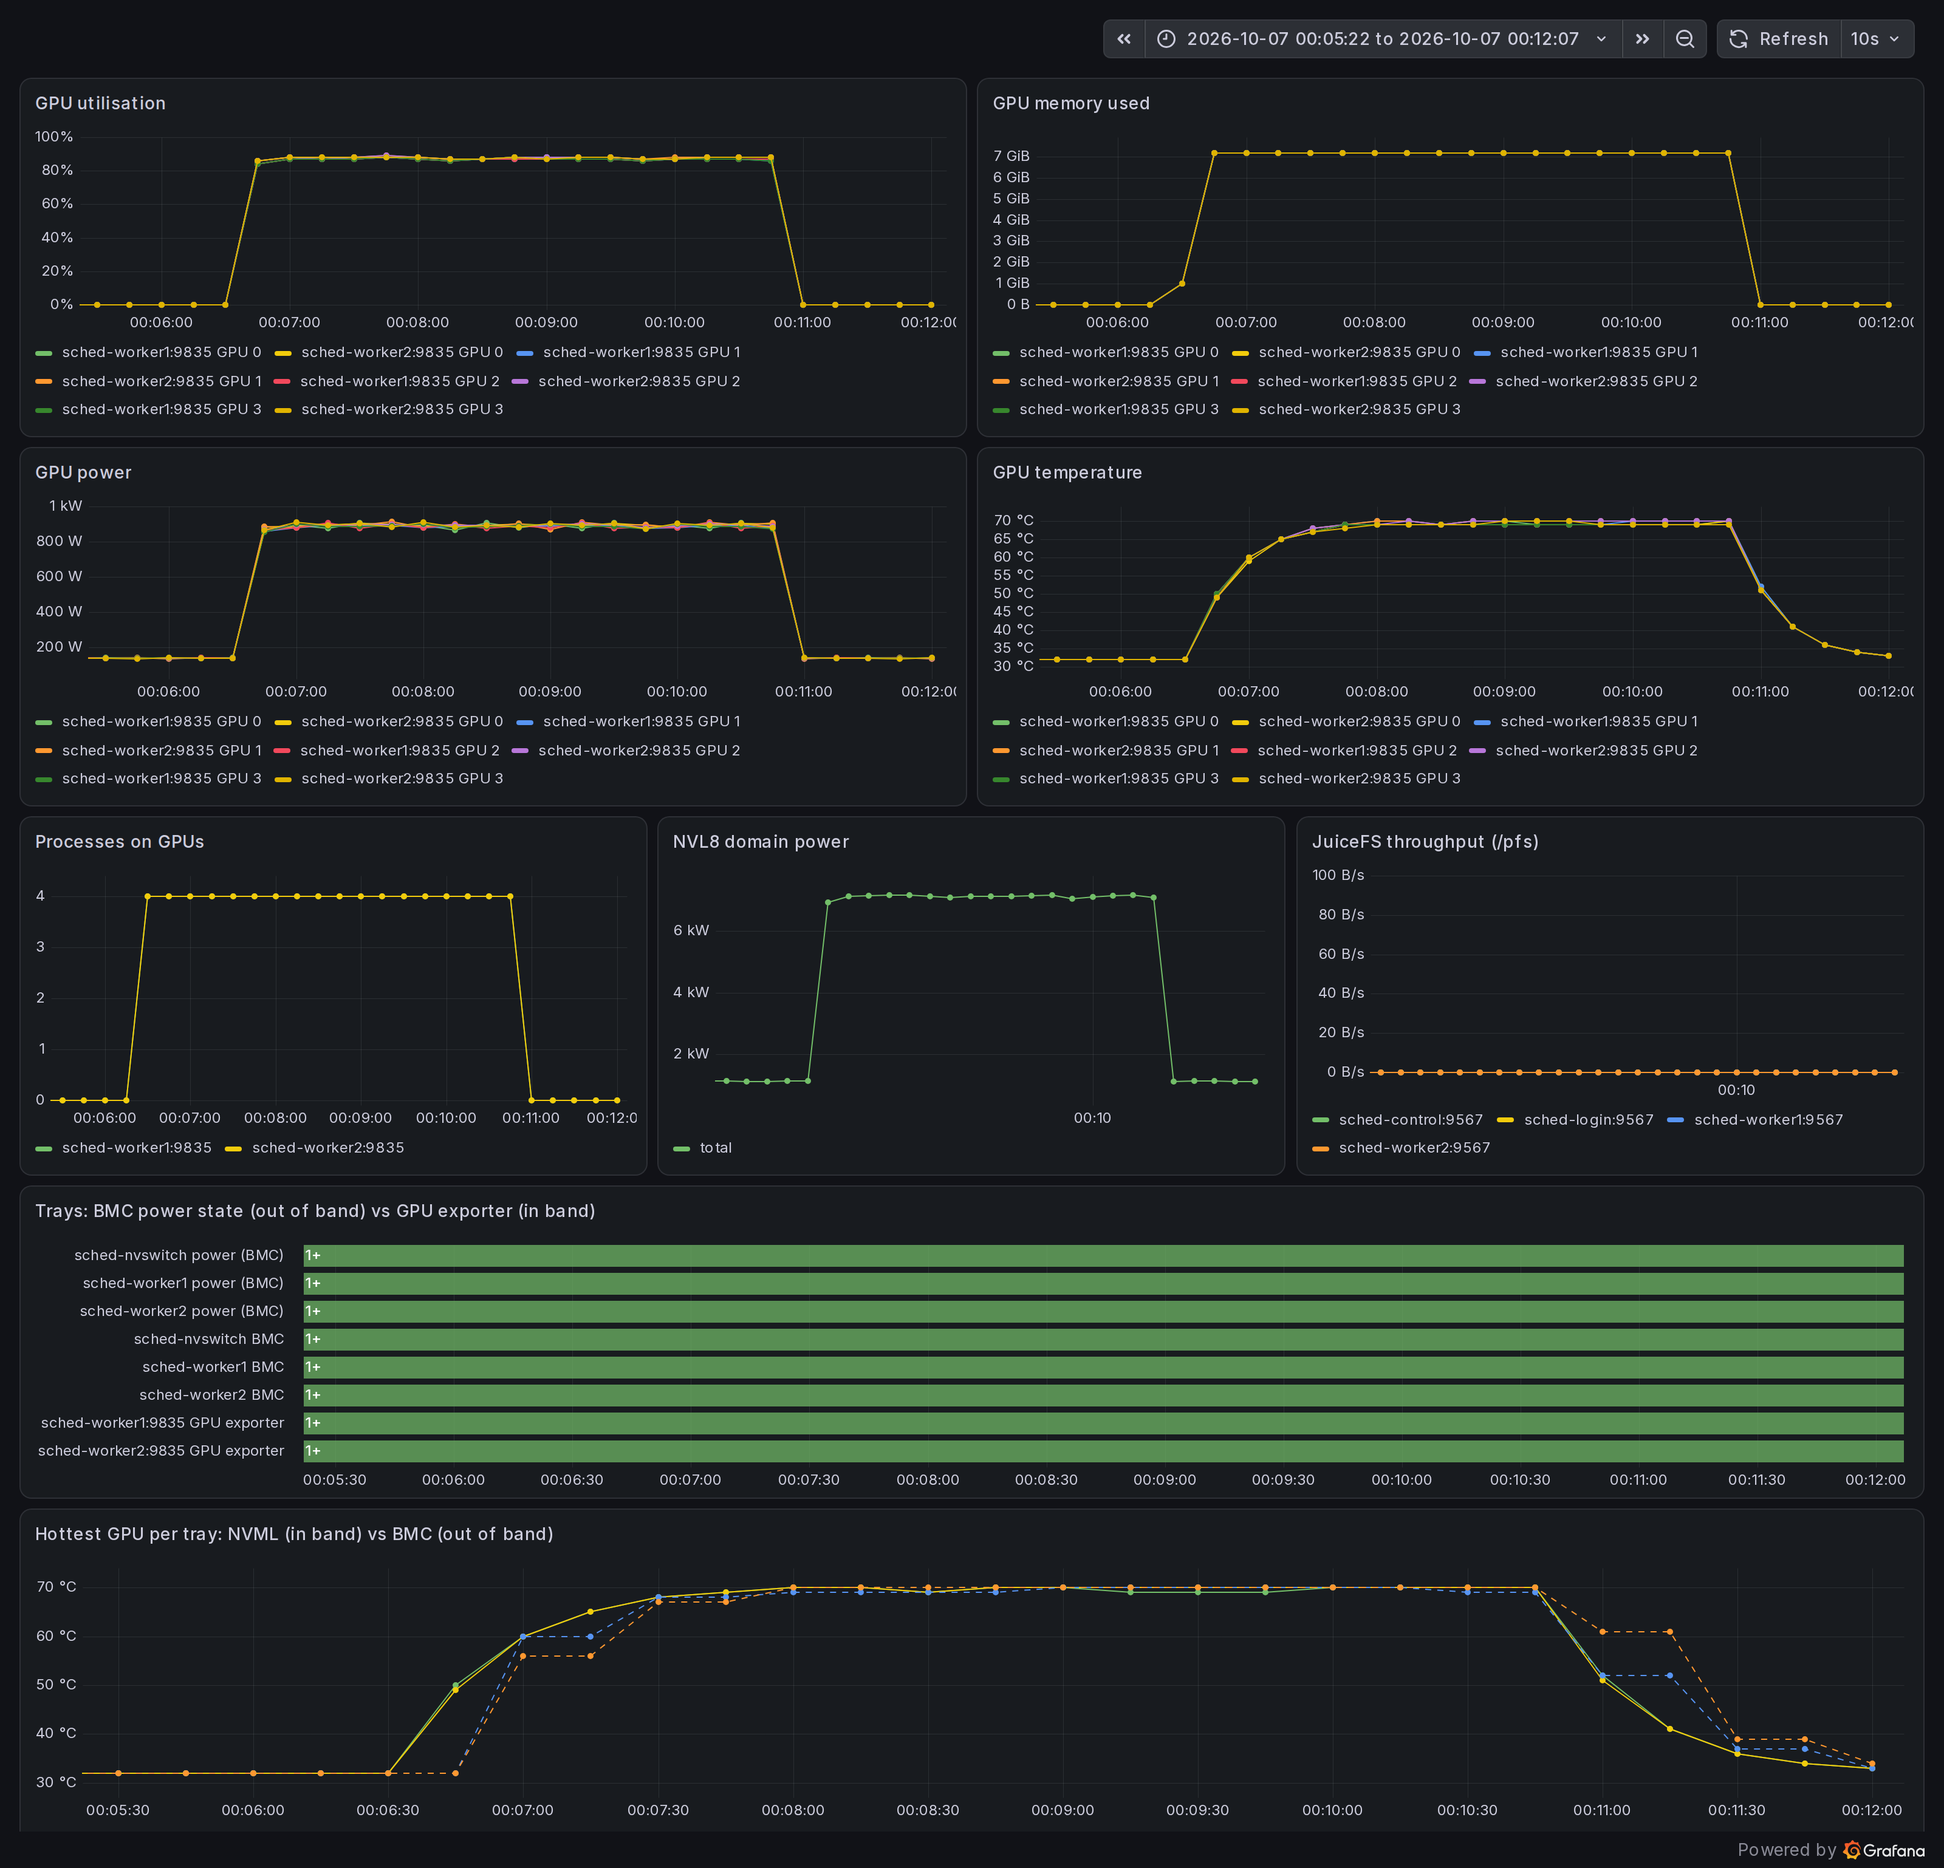
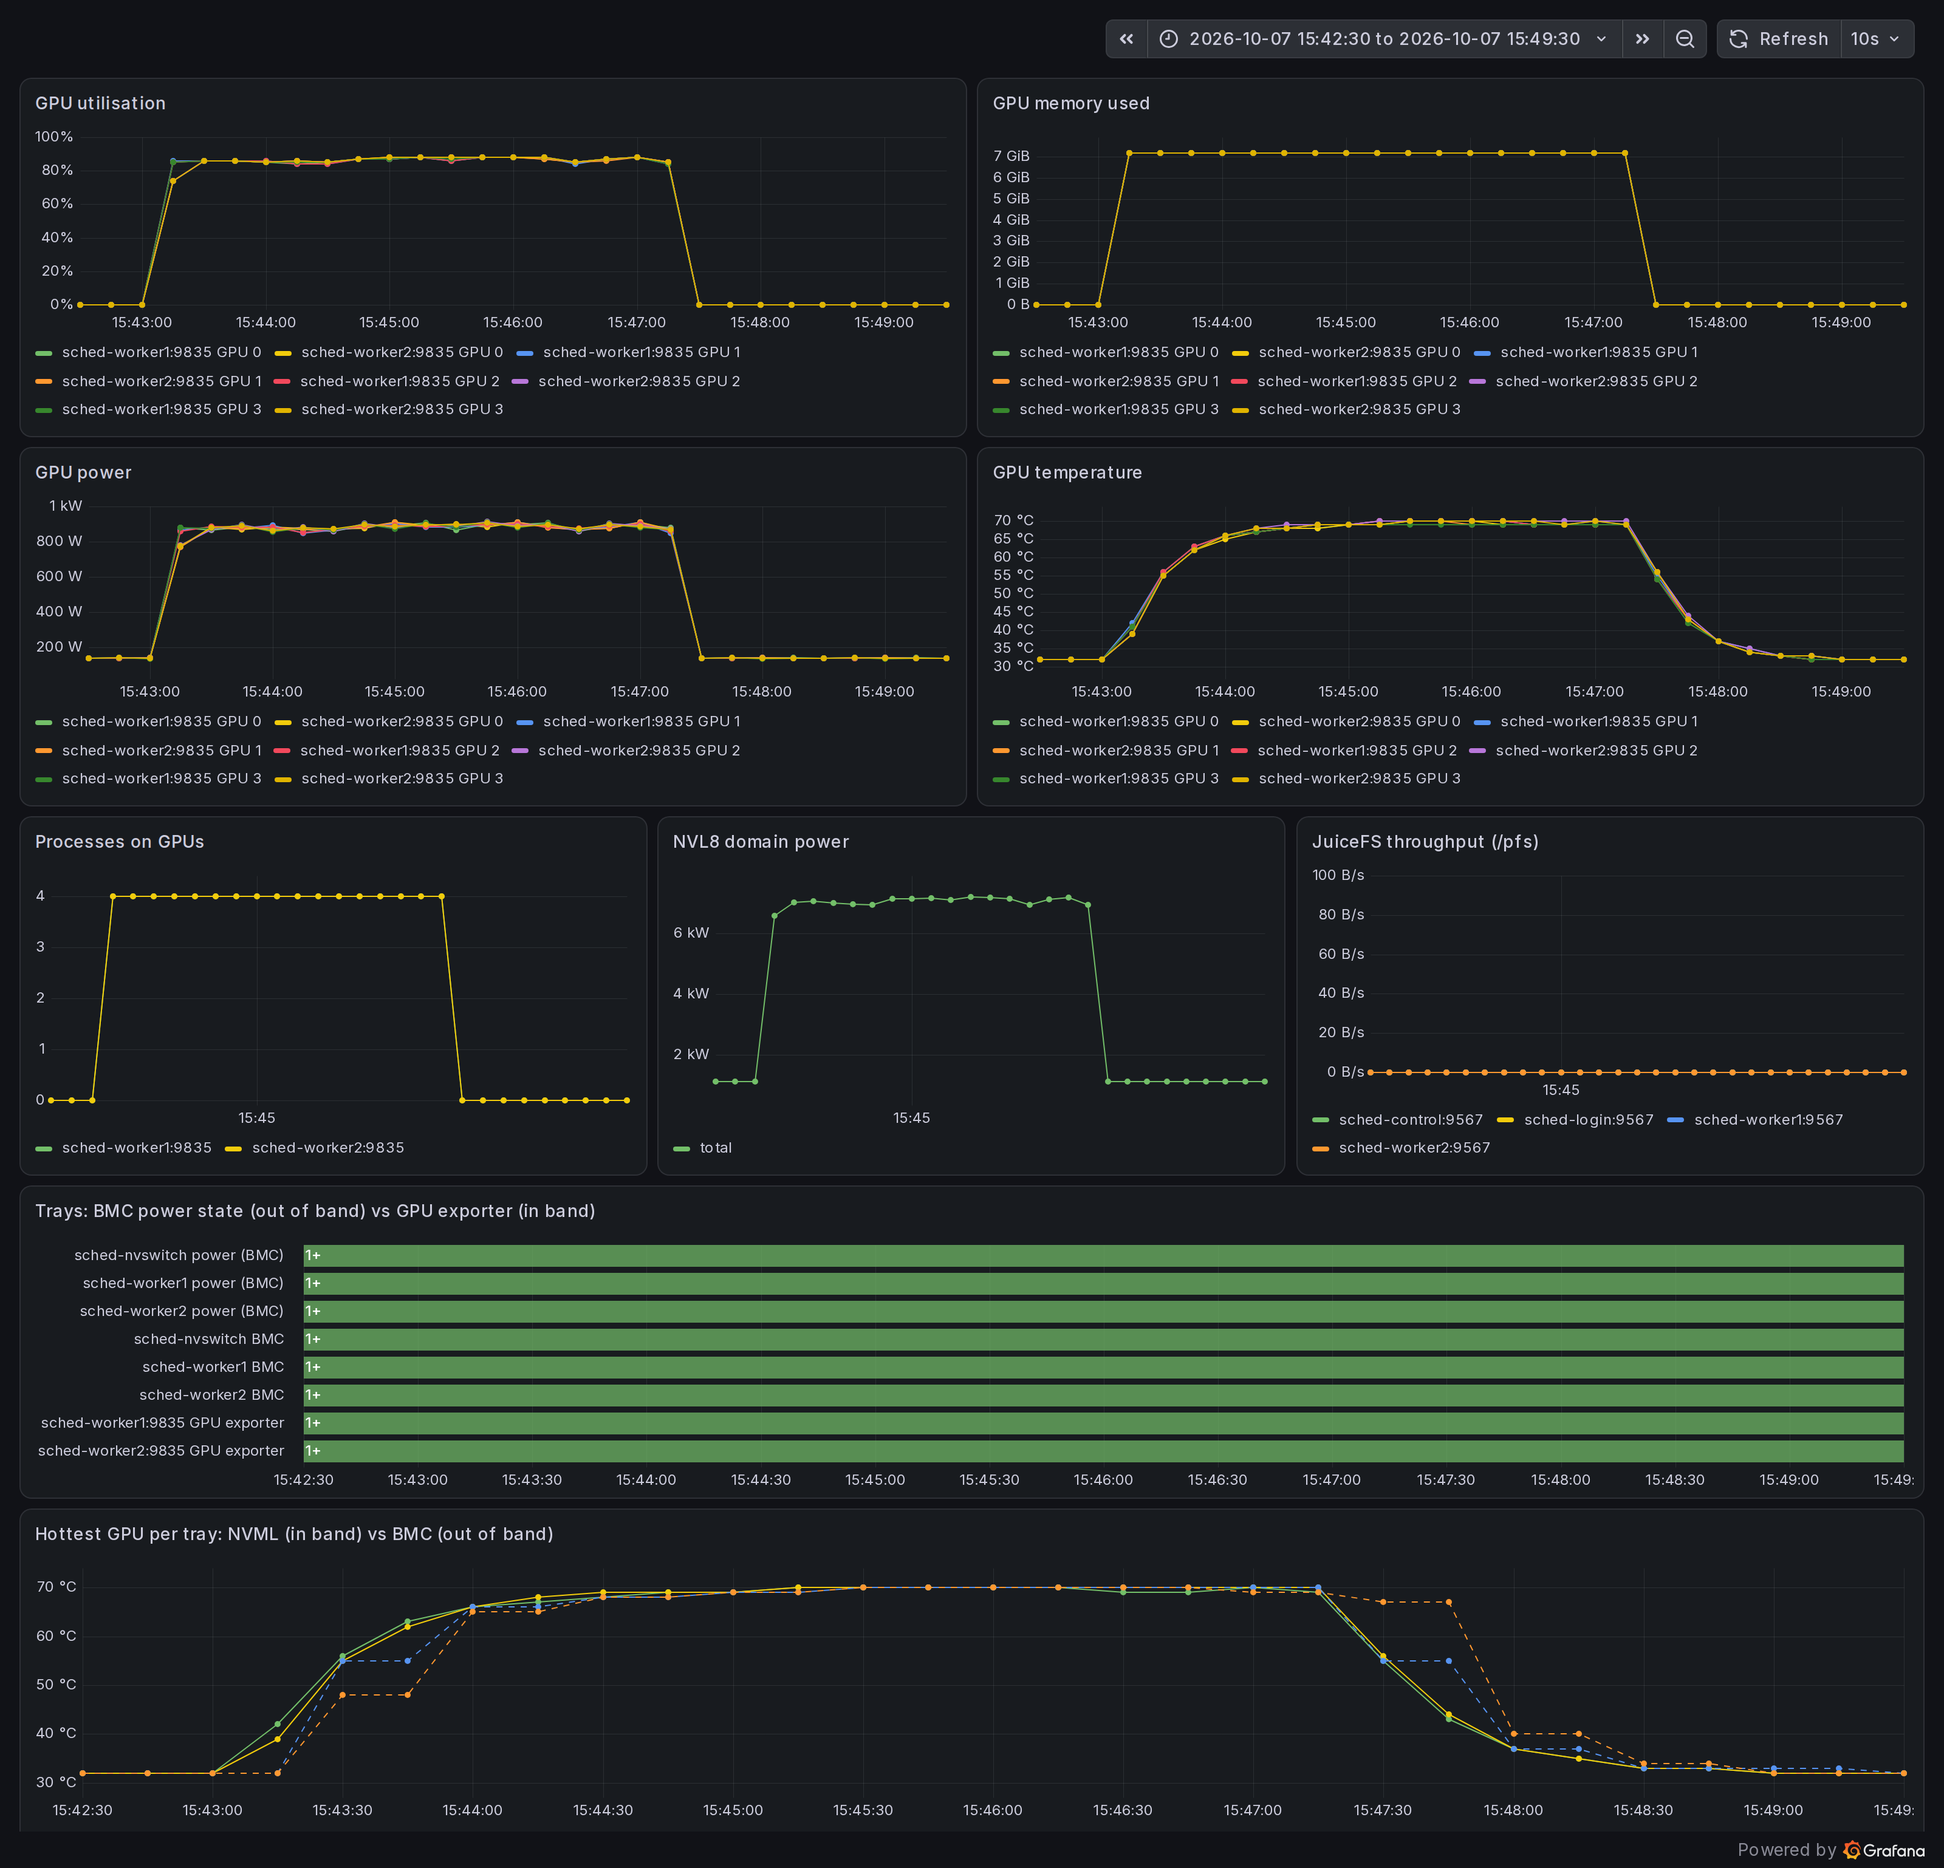
AI lab Parts 3 and 7: recaptured with per-precision GEMM rates
Recaptured on the lab in Kubernetes mode (ai-lab 41bf14d):
- Part 3: the example JobSets, the 50-step DDP run (4.0-4.3 ms per
  step), Kueue queueing, PromQL, nvidia-smi and both screenshots
- Part 7: NVLink traffic during the DDP run, now linked to Part 3,
  where the Kubernetes run comes from
- Part 6: why drained* appears before SlurmdTimeout

diff --git a/content/ai-lab/03-kubernetes/index.md b/content/ai-lab/03-kubernetes/index.md
@@ -160,32 +160,32 @@ The repository's `examples/kubernetes/` has four example jobs, written as JobSet
 $ cd examples/kubernetes
 
 $ ./submit --wait nvl8-hello.yaml
-nvl8-hello-393696
+nvl8-hello-563447
 
-$ cat nvl8-hello-393696.out
-[pod/nvl8-hello-393696-rank-0-4-74f9v/hello] rank 4 on sched-worker2 NVIDIA_VISIBLE_DEVICES=GPU-81477906-d580-de42-e868-ff62e9ef4317: NVIDIA GB200, GPU-81477906-d580-de42-e868-ff62e9ef4317, 1
+$ cat nvl8-hello-563447.out
+[pod/nvl8-hello-563447-rank-0-7-qqdvr/hello] rank 7 on sched-worker2 NVIDIA_VISIBLE_DEVICES=GPU-814804a5-291e-ba91-a4e9-01fb69ea739b: NVIDIA GB200, GPU-814804a5-291e-ba91-a4e9-01fb69ea739b, 1
 …
-[pod/nvl8-hello-393696-rank-0-3-qgclw/hello] rank 3 on sched-worker1 NVIDIA_VISIBLE_DEVICES=GPU-81502f39-9cad-de97-2723-3d7d71928458: NVIDIA GB200, GPU-81502f39-9cad-de97-2723-3d7d71928458, 1
+[pod/nvl8-hello-563447-rank-0-6-m65hh/hello] rank 6 on sched-worker2 NVIDIA_VISIBLE_DEVICES=GPU-8147ef90-7f0c-fc1e-c070-d80c4a3d939f: NVIDIA GB200, GPU-8147ef90-7f0c-fc1e-c070-d80c4a3d939f, 1
 ```
 
 That's eight pods, each holding one different GPU, all in clique 1. DDP works the same way: two pods with four GPUs each, and `torchrun` doing rendezvous on pod 0 through the JobSet's DNS name:
 
 ```console
 $ ./submit --wait ddp-train.yaml
-ddp-train-489951
+ddp-train-784428
 
-$ grep -E "world=|step |rank 0/" ddp-train-489951.out
-[pod/ddp-train-489951-node-0-0-tdt2z/torchrun] world=8 params=537M batch/rank=64 width=8192
-[pod/ddp-train-489951-node-0-0-tdt2z/torchrun] step    1      9.3 ms     55220 samples/s      22 TFLOP/s/GPU
-[pod/ddp-train-489951-node-0-0-tdt2z/torchrun] step   10      4.5 ms    114013 samples/s      46 TFLOP/s/GPU
-[pod/ddp-train-489951-node-0-0-tdt2z/torchrun] step   20      4.3 ms    117940 samples/s      47 TFLOP/s/GPU
-[pod/ddp-train-489951-node-0-0-tdt2z/torchrun] step   30      4.9 ms    105525 samples/s      42 TFLOP/s/GPU
-[pod/ddp-train-489951-node-0-0-tdt2z/torchrun] step   40      4.3 ms    119061 samples/s      48 TFLOP/s/GPU
-[pod/ddp-train-489951-node-0-0-tdt2z/torchrun] step   50      5.8 ms     87613 samples/s      35 TFLOP/s/GPU
-[pod/ddp-train-489951-node-0-0-tdt2z/torchrun] rank 0/8 on ddp-train-489951-node-0-0 cuda:0 (NVIDIA GB200) peak mem 6.1 GiB
+$ grep -E "world=|step |rank 0/" ddp-train-784428.out
+[pod/ddp-train-784428-node-0-0-8rgvd/torchrun] world=8 params=537M batch/rank=64 width=8192
+[pod/ddp-train-784428-node-0-0-8rgvd/torchrun] step    1      7.9 ms     65182 samples/s      26 TFLOP/s/GPU
+[pod/ddp-train-784428-node-0-0-8rgvd/torchrun] step   10      4.3 ms    119891 samples/s      48 TFLOP/s/GPU
+[pod/ddp-train-784428-node-0-0-8rgvd/torchrun] step   20      4.1 ms    125733 samples/s      51 TFLOP/s/GPU
+[pod/ddp-train-784428-node-0-0-8rgvd/torchrun] step   30      4.0 ms    126661 samples/s      51 TFLOP/s/GPU
+[pod/ddp-train-784428-node-0-0-8rgvd/torchrun] step   40      4.0 ms    128022 samples/s      52 TFLOP/s/GPU
+[pod/ddp-train-784428-node-0-0-8rgvd/torchrun] step   50      4.1 ms    124470 samples/s      50 TFLOP/s/GPU
+[pod/ddp-train-784428-node-0-0-8rgvd/torchrun] rank 0/8 on ddp-train-784428-node-0-0 cuda:0 (NVIDIA GB200) peak mem 7.1 GiB
 ```
 
-The default run is only 50 steps. After the first step, which includes warm-up, a step takes between 4.3 and 5.8 ms, in the same range as the same job under Slurm in Part 2. As there, the step time is simulated, and the loss values are not real.
+The default run is only 50 steps. After the first step, which includes warm-up, a step takes between 4.0 and 4.3 ms, in the same range as the same job under Slurm in Part 2. As there, the step time is simulated, and the loss values are not real.
 
 ## Operations
 
@@ -197,19 +197,19 @@ Start a longer DDP run, `ddp-long.yaml`: a copy of `ddp-train.yaml` with `--step
 
 ```console
 $ ./submit ddp-long.yaml
-ddp-long-153244
+ddp-long-479273
 
 $ ./submit nvl8-hello.yaml
-nvl8-hello-828000
+nvl8-hello-370393
 
 $ kubectl get workloads
 NAME                             QUEUE   RESERVED IN   ADMITTED   FINISHED   AGE
-jobset-ddp-long-153244-03f59     gpu     gpu           True                  48s
-jobset-ddp-train-489951-e427a    gpu     gpu           True       True       2m43s
-jobset-nvl8-hello-393696-8ffa7   gpu     gpu           True       True       3m4s
-jobset-nvl8-hello-828000-ef6fa   gpu                   False                 8s
+jobset-ddp-long-479273-f3281     gpu     gpu           True                  59s
+jobset-ddp-train-784428-cf108    gpu     gpu           True       True       2m15s
+jobset-nvl8-hello-370393-dc423   gpu                   False                 9s
+jobset-nvl8-hello-563447-13ea0   gpu     gpu           True       True       2m26s
 
-$ kubectl get workload jobset-nvl8-hello-828000-ef6fa \
+$ kubectl get workload jobset-nvl8-hello-370393-dc423 \
     -o jsonpath='{.status.conditions[?(@.type=="QuotaReserved")].message}'
 couldn't assign flavors to pod set rank: insufficient unused quota for nvidia.com/gpu in flavor gb200, 8 more needed
 ```
@@ -257,9 +257,9 @@ RUNNING 1, PENDING 1
 sched_nodes
 READY 2
 
-# GPU utilisation per tray (4 GPUs × ~86 %)
+# GPU utilisation per tray (4 GPUs × ~88 %)
 sum by (instance) (nvidia_smi_utilization_gpu_ratio)
-3.46, 3.44
+3.52, 3.52
 
 # processes on GPUs
 sum by (instance) (nvidia_smi_compute_apps)
@@ -274,9 +274,9 @@ Grafana's **Lab overview** dashboard shows the same DDP run on the trays:
 
 All eight GPUs move together, as they did under Slurm:
 
-- **GPU utilisation** jumps to 87-88 % when the pods start and drops to 0 when they end.
+- **GPU utilisation** jumps to 86-88 % when the pods start and drops to 0 when they end.
 - **GPU memory used** goes to about 7 GiB per GPU and stays there until the job ends.
-- **GPU power** goes from about 140 W to 880-910 W per GPU.
+- **GPU power** goes from about 140 W to 860-910 W per GPU.
 - **GPU temperature** climbs to 70 °C over about a minute. When the job ends it cools gradually: Kubernetes has no epilog to reset the GPUs, unlike Slurm ([Part 8](@/ai-lab/08-gpu-handover/index.md)).
 - **Processes on GPUs** shows 4 per tray, one per GPU.
 - **NVL8 domain power** is the total for all eight GPUs: about 7.1 kW, from 1.1 kW at idle.
@@ -293,20 +293,20 @@ While the job runs, the pods' GPU work is visible on the trays as it would be fo
 
 ```console
 $ bin/ssh sched-worker1 nvidia-smi --query-gpu=index,utilization.gpu,memory.used,power.draw,temperature.gpu --format=csv,noheader
-0, 86 %, 7850 MiB, 888.75 W, 69
-1, 87 %, 7850 MiB, 875.70 W, 69
+0, 87 %, 7850 MiB, 890.25 W, 70
+1, 87 %, 7850 MiB, 887.85 W, 70
 …
 
 $ bin/ssh sched-worker1 nvidia-smi --query-compute-apps=pid,process_name,used_memory --format=csv,noheader
-17606, /shared/venv/bin/python, 7338 MiB
+22749, /shared/venv/bin/python, 7338 MiB
 …
 
-$ bin/kubectl -n joe exec ddp-long-153244-node-0-0-hkv4r -- nvidia-smi --query-compute-apps=pid,process_name,used_memory --format=csv,noheader
+$ bin/kubectl -n joe exec ddp-long-479273-node-0-0-5pbc9 -- nvidia-smi --query-compute-apps=pid,process_name,used_memory --format=csv,noheader
 16, /shared/venv/bin/python, 7338 MiB
 …
 ```
 
-The same worker appears as PID 17606 on the tray and PID 16 inside the pod: each viewer sees the process under the PID from its own namespace, as with the real driver. [Part 6](@/ai-lab/06-observability/index.md) walks through both dashboards and what to read from each graph.
+The same worker appears as PID 22749 on the tray and PID 16 inside the pod: each viewer sees the process under the PID from its own namespace, as with the real driver. [Part 6](@/ai-lab/06-observability/index.md) walks through both dashboards and what to read from each graph.
 
 ## Next in the series
 

diff --git a/content/ai-lab/07-networking/index.md b/content/ai-lab/07-networking/index.md
@@ -50,7 +50,7 @@ eth0@if101       UP             10.107.111.21/24 metric 100 fd42:7625:9911:a275:
 
 `eth0` carries everything: SSH, the scheduler's control traffic, LDAP, S3 and JuiceFS, Prometheus scrapes, and the BMCs' Redfish. In Kubernetes mode `flannel.1` adds the pod network (a 10.42.x.0/24 per node) as VXLAN over the same `eth0`. That's where the DDP job's rendezvous happens: `torchrun` in pod 1 connects to pod 0 through the JobSet's DNS name ([Part 3](@/ai-lab/03-kubernetes/index.md#running-jobs)).
 
-The rendezvous is a handful of small messages. The training traffic itself, the gradients exchanged in every all-reduce, never touches the Ethernet side (`eth0` and the pod network on top of it). With the 8-GPU DDP job running ([Part 6](@/ai-lab/06-observability/index.md)), Prometheus showed:
+The rendezvous is a handful of small messages. The training traffic itself, the gradients exchanged in every all-reduce, never touches the Ethernet side (`eth0` and the pod network on top of it). With the 8-GPU DDP job running ([Part 3](@/ai-lab/03-kubernetes/index.md)), Prometheus showed:
 
 ```
 # Ethernet traffic from each tray
@@ -59,7 +59,7 @@ rate(node_network_transmit_bytes_total{device="eth0", instance=~"sched-worker.*"
 
 # NVLink traffic from each tray
 sum by (host) (rate(nvlink_gpu_tx_bytes_total[1m]))
-~1.75 TB/s per tray
+~1.8 TB/s per tray
 ```
 
 {% <admonition type="note" title="Real hardware would do the same"> %}

diff --git a/content/ai-lab/06-observability/index.md b/content/ai-lab/06-observability/index.md
@@ -105,7 +105,7 @@ Each row is a state timeline: green when the series is 1, red when it's 0. When 
 
 - **14:29:24** `up{job="gpu"}` for `sched-worker2` drops to 0: the GPU exporter on the tray is scraped every 5 s.
 - **14:29:51** `idrac_system_power_on` for `sched-worker2` drops to 0: the BMC is polled every 30 s.
-- **14:30:10** Slurm marks the node as not responding: `sinfo` shows `drained*`, where the `*` means the controller can't reach the node's `slurmd`.
+- **14:30:10** Slurm marks the node as not responding: `sinfo` shows `drained*`, where the `*` means the controller's last ping to the node's `slurmd` got no answer. The controller pings every third of `SlurmdTimeout` (300 s in the lab), and would mark the node `DOWN` only after the full timeout.
 - **14:31:21** powered on.
 - **14:31:24** the GPU exporter is up, and `slurmd` registers again. The node stays drained until it's resumed.
 - **14:31:51** the BMC reports power on, at its next 30 s poll.
